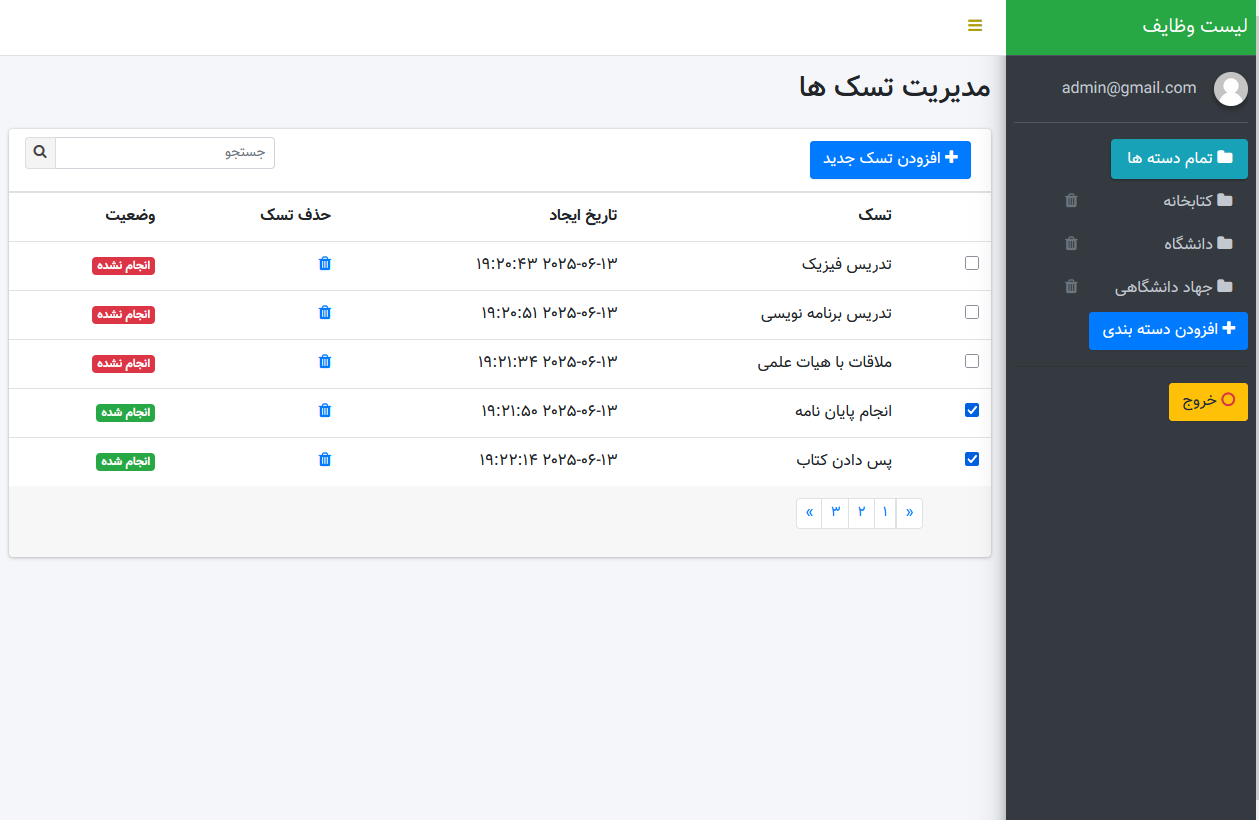
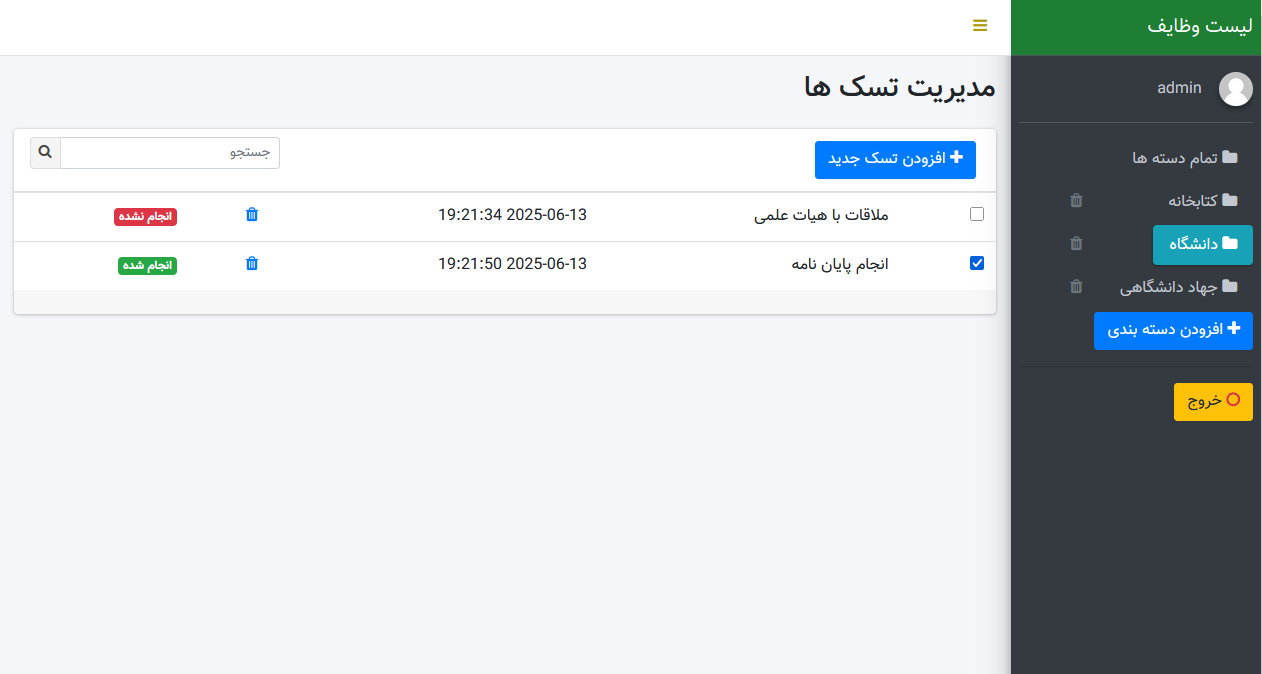
end project

diff --git a/assets/js/main.js b/assets/js/main.js
@@ -1,0 +1,146 @@
+	$(document).ready(function(){
+		
+		/*Add Folder*/
+		var btn = $('#newFolderBtn');
+		var input = $('input#newFolderInput');
+		btn.click(function(event){
+			event.preventDefault();
+			
+			$.ajax({
+				url: 'process/ajaxHandeler.php',
+				method: 'post',
+				dataType: 'json', // ⬅ مهم: پاسخ باید JSON باشه
+				data: {action: "addFolder", folderName: input.val()},
+				success: function(response){
+					if(response.status == 1){					
+					   //$('#folder_list').append('<li>aaaa</li>');
+			const newFolderHTML = `
+			<li class="nav-item">
+			  <a href="?folder_id=${response.id}" style="float:right;" class="nav-link">
+				<i class="fa fa-folder" aria-hidden="true"></i>
+				<p>${response.name}</p>
+			  </a>
+			  <a href="?delete_folder=${response.id}">
+				<span style="float:left;margin-left: 35px;cursor:pointer;" class="nav-link">
+				  <i class="fa fa-trash" aria-hidden="true"></i>
+				</span>
+			  </a>
+			</li>
+			`;
+			$('#folder_list').append(newFolderHTML);
+					}else{
+					alert(response.message || "خطا در افزودن فولدر");		
+					}
+				}
+			});
+		});
+		
+		
+		
+		/*Add Task*/
+		
+				var taskBtn = $('#newTaskBtn');
+				var taskInput = $('input#newTaskInput');
+				
+				taskBtn.click(function(event){
+					event.preventDefault();
+					$.ajax({
+						url: 'process/ajaxHandeler.php',
+						method: 'post',
+						//dataType: 'json', // ⬅ مهم: پاسخ باید JSON باشه
+						data: {action : "addTask", folderId : <?= json_encode($_GET['folder_id'] ?? null) ?> , taskTitle: taskInput.val()},
+						success: function(response){ 
+													
+							if(response == 1){
+								location.reload();
+							}else{
+								alert(response.message || "خطا در افزودن تسک!");		
+							}
+						}
+					});
+				});
+		
+		
+			/*check task*/
+				$(document).on('change', '.isDone', function() {
+					const checkbox = $(this);
+					var tId = $(this).attr('data-taskId');
+					const newStatus = checkbox.is(':checked') ? 1 : 0;
+					
+				$.ajax({
+					url: 'process/ajaxHandeler.php',
+					method: 'POST',
+					data: {
+						action: 'doneSwitch',
+						taskId: tId,
+						status: newStatus
+					},
+					success: function(response) {
+						location.reload();
+					},
+					error: function(xhr) {
+						alert('خطا در بروزرسانی وضعیت');
+					}
+				});
+					
+				});
+		
+		// حذف تسک
+		$(document).on('click', '.delete-task', function(e) {
+		  e.preventDefault();
+
+		  if (!confirm('آیا از حذف آیتم مطمئنید؟')) return;
+
+		  const taskId = $(this).data('task-id');
+			const row = $(this).closest('tr');
+		  $.ajax({
+			url: 'process/ajaxHandeler.php',
+			method: 'POST',
+			data: {
+			  action: 'deleteTask',
+			  taskId: taskId
+			},
+			success: function(response) {
+			  try {
+				const res = JSON.parse(response);
+				if (res.status == 1) {
+				    row.fadeOut(300, function () {
+					  $(this).remove();
+					});
+				} else {
+				  alert(res.message || 'حذف انجام نشد');
+				}
+			  } catch(e) {
+				alert('پاسخ نامعتبر از سرور');
+			  }
+			},
+			error: function() {
+			  alert('خطا در ارتباط با سرور');
+			}
+		  });
+		});
+	  
+		/*search with Ajax*/
+		  $('#taskSearchInput').on('input', function() {
+		const query = $(this).val();
+		const folderId = <?= json_encode($_GET['folder_id'] ?? null) ?>;
+
+		$.ajax({
+		  url: 'process/ajaxHandeler.php',
+		  method: 'POST',
+		  data: {
+			action: 'searchTasks',
+			searchQuery: query,
+			folderId: folderId
+		  },
+		  success: function(response) {
+			$('table tbody').html(response);
+		  },
+		  error: function() {
+			alert('خطا در جستجو');
+		  }
+		});
+	  });
+
+		
+	});

diff --git a/views/tpl-index.php b/views/tpl-index.php
@@ -134,7 +134,7 @@
 
     <!-- Main content -->
     <section class="content">
-      <div class="container-fluid">
+      <div class="container-fluid"> 
         <div class="row">
           <div class="col-12">
             <div class="card">
@@ -142,8 +142,8 @@
 				<button type="button" class="btn btn-primary" data-toggle="modal" data-target="#taskModal"><i class="nav-icon fa fa-plus"></i> افزودن تسک جدید </button>
                 <div class="card-tools">
                   <div class="input-group input-group-sm" style="width: 250px;">
-                    <input type="text" name="table_search" class="form-control float-right" placeholder="جستجو">
-						
+					<input type="text" name="table_search" id="taskSearchInput" class="form-control float-right" placeholder="جستجو">
+		
                     <div class="input-group-append">
                       <button type="submit" class="btn btn-default"><i class="fa fa-search"></i></button>
                     </div>
@@ -209,15 +209,8 @@
                 </table>
               </div>
               <!-- /.card-body -->
-				<div class="card-footer clearfix">
-					<ul class="pagination pagination-sm mr-5 float-right">
-					  <li class="page-item"><a class="page-link" href="#">&laquo;</a></li>
-					  <li class="page-item"><a class="page-link" href="#">1</a></li>
-					  <li class="page-item"><a class="page-link" href="#">2</a></li>
-					  <li class="page-item"><a class="page-link" href="#">3</a></li>
-					  <li class="page-item"><a class="page-link" href="#">&raquo;</a></li>
-					</ul>
-				</div>
+				<div class="card-footer clearfix ">
+
             </div>
             <!-- /.card -->
           </div>
@@ -229,7 +222,7 @@
 
   <!-- /.content-wrapper -->
   <footer class="main-footer">
-    <strong>CopyLeft &copy; 2018 <a href="http://github.com/hesammousavi/">حسن درویشی</a>.</strong>
+    <strong>CopyLeft &copy; 2025 <a href="http://github.com/hesammousavi/">حسن درویشی</a>.</strong>
   </footer>
 
   <!-- Control Sidebar -->
@@ -377,10 +370,29 @@
 			}
 		  });
 		});
+	  
+		/*search with Ajax*/
+		  $('#taskSearchInput').on('input', function() {
+		const query = $(this).val();
+		const folderId = <?= json_encode($_GET['folder_id'] ?? null) ?>;
 
-		
-		
-		
+		$.ajax({
+		  url: 'process/ajaxHandeler.php',
+		  method: 'POST',
+		  data: {
+			action: 'searchTasks',
+			searchQuery: query,
+			folderId: folderId
+		  },
+		  success: function(response) {
+			$('table tbody').html(response);
+		  },
+		  error: function() {
+			alert('خطا در جستجو');
+		  }
+		});
+	  });
+
 		
 	});
 

diff --git a/libs/tasks.php b/libs/tasks.php
@@ -147,3 +147,55 @@ function deleteTask($taskId){
     }
     exit;
 }
+
+function searchTasks(){
+	
+	    $query = $_POST['searchQuery'] ?? '';
+		$folderId = $_POST['folderId'] ?? null;
+
+    global $pdo;
+	
+	$currentUserId = getCurrentUserId();
+	$folder = $_GET['folder_id'] ?? null;
+	$folderCondition = '';
+	if(isset($folder) && is_numeric($folder)){
+		$folderCondition = "and folder_id=$folder";
+	}
+    $sql = "SELECT * FROM tasks WHERE title LIKE :query AND user_id = $currentUserId $folderCondition";
+    $params = [':query' => '%' . $query . '%'];
+
+    if ($folderId) {
+        $sql .= " AND folder_id = :fid";
+        $params[':fid'] = $folderId;
+    }
+
+    $stmt = $pdo->prepare($sql);
+    $stmt->execute($params);
+    $tasks = $stmt->fetchAll();
+
+    if (count($tasks)) {
+        foreach ($tasks as $task) {
+            ?>
+            <tr>
+              <td><input type="checkbox" data-taskId="<?= $task['id'] ?>" class="isDone" <?= $task['is_done'] ? 'checked' : '' ?>></td>
+              <td><?= $task['title'] ?></td>
+              <td><?= $task['created_at'] ?></td>
+              <td>
+                <a href="?delete_task=<?= $task['id'] ?>" onclick="return confirm('آیا از حذف مطمئن هستید؟');">
+                  <i class="fa fa-trash"></i>
+                </a>
+              </td>
+              <td>
+                <span class="badge <?= $task['is_done'] ? 'badge-success' : 'badge-danger' ?>">
+                  <?= $task['is_done'] ? 'انجام شده' : 'انجام نشده' ?>
+                </span>
+              </td>
+            </tr>
+            <?php
+        }
+    } else {
+        echo '<tr><td colspan="5"><span class="alert alert-warning">تسکی یافت نشد.</span></td></tr>';
+    }
+
+    exit;
+}

diff --git a/process/ajaxHandeler.php b/process/ajaxHandeler.php
@@ -8,7 +8,7 @@ if (!isAjaxRequest()){
 	diePage("درخواست نامعتبر است.");
 }
 if (!isset($_POST['action']) || empty($_POST['action'])){
-	diePage("مسیر ارسال نامعتبر است.");
+	diePage("مسیر ارسال نامعتبر است."); 
 }
 
 switch($_POST['action']){
@@ -40,7 +40,7 @@ switch($_POST['action']){
 	echo addTask($taskTitle, $folderId);
 		
 	break;
-		case 'doneSwitch' : 
+	case 'doneSwitch' : 
 		
 		$taskId = $_POST['taskId'] ?? null;
         $status = $_POST['status'] ?? 0;
@@ -48,11 +48,16 @@ switch($_POST['action']){
 		echo doneSwitch($taskId, $status );
 		
 	break;
-		case 'deleteTask' : 
+	case 'deleteTask' : 
 		
 		$taskId = $_POST['taskId'] ?? null;
 		
 		echo deleteTask($taskId);
+		
+	break;
+	case 'searchTasks' : 
+		
+		echo searchTasks();
 		
 	break;
 
